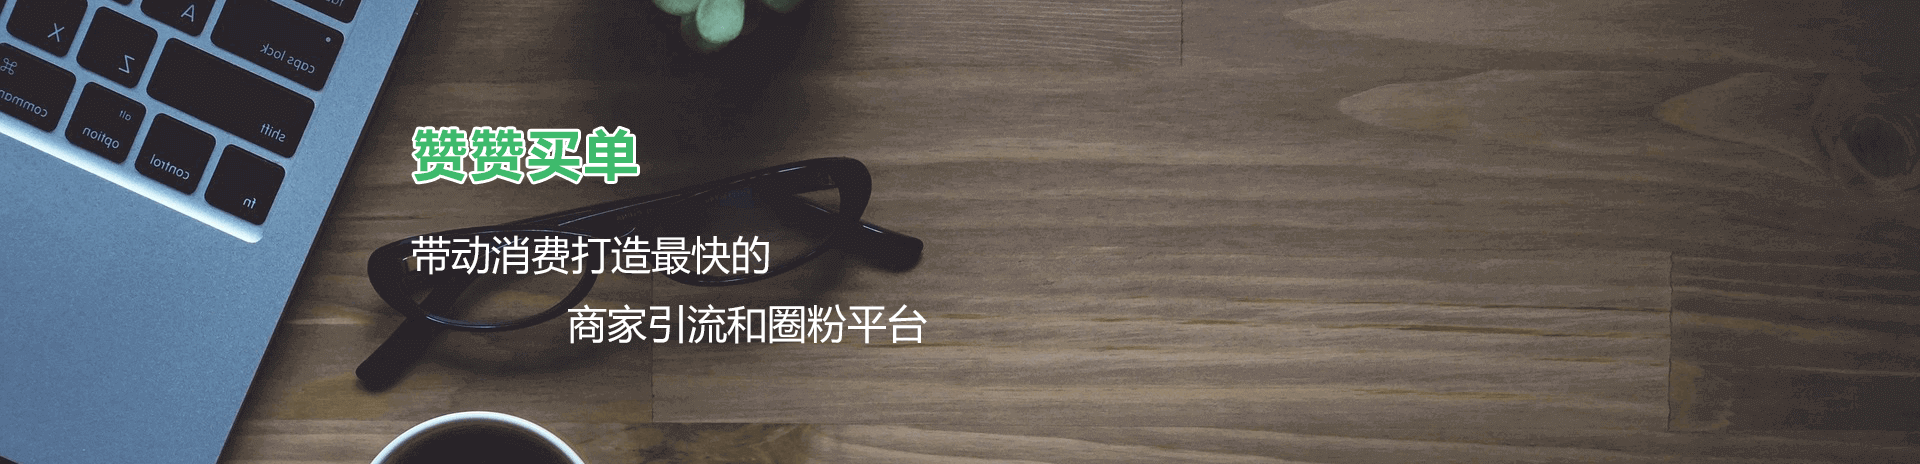
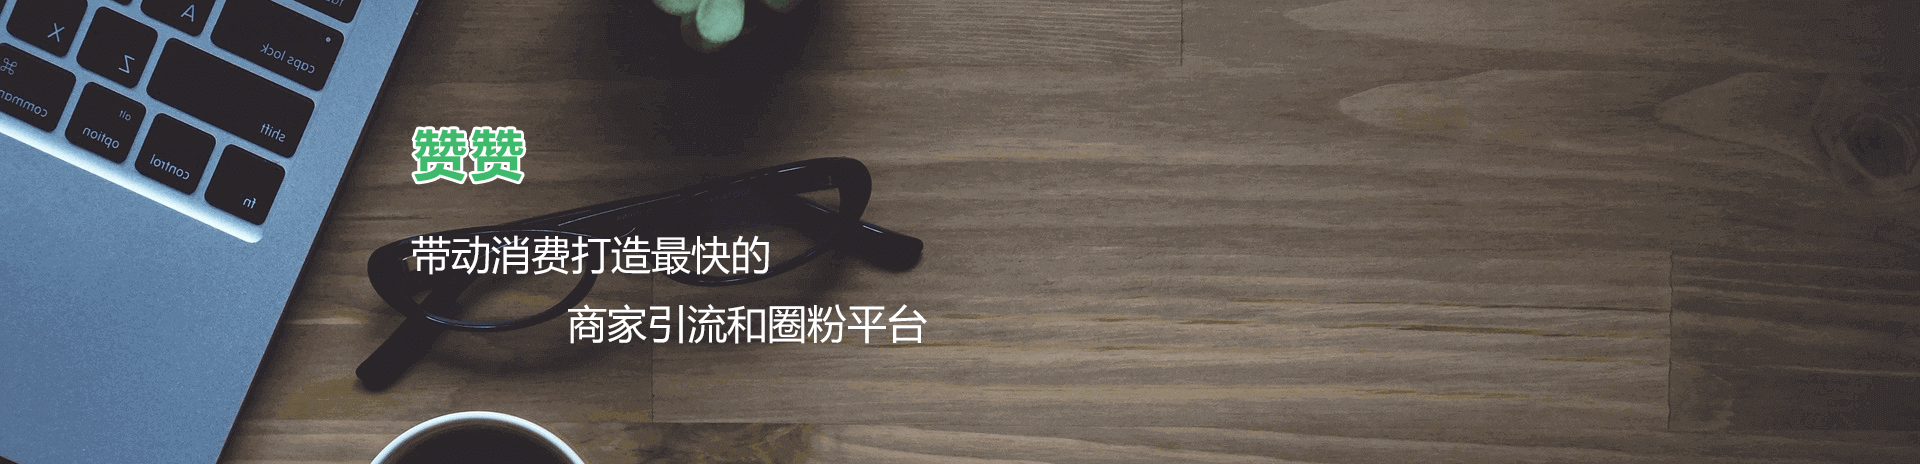
change name

Changed region(s): [[0.25, 0.2716, 0.3438, 0.3922]]

diff --git a/src/pages/homeComponents/header.jsx b/src/pages/homeComponents/header.jsx
@@ -22,7 +22,7 @@ class HomeHeader extends React.Component{
[1 lines of base64/hex data omitted]
 				style={{width:40+'px',height:40+'px'}}/>
 				<div className="logoName">
-					<p className="logoNameCont">赞赞买单商家版</p>
+					<p className="logoNameCont">赞赞交易平台</p>
 					<p>mt.zanzanmd.cn</p>
 				</div>
 			</div>

diff --git a/src/pages/login/login.jsx b/src/pages/login/login.jsx
@@ -10,7 +10,7 @@ class Login extends React.Component {
     }
     render = _ => <div className='login-wrapper'>
         <div className="header">
-            <img style={{width: 385 + 'px',height: 51 + 'px'}} src={require(`../../assets/img/images/logo.png`)}/>
+            <img style={{width: 307 + 'px',height: 51 + 'px'}} src={require(`../../assets/img/images/logo.png`)}/>
         </div>
         <div className="content-wrapper" style={{
             width: 100 + '%',
@@ -27,9 +27,9 @@ class Login extends React.Component {
         <div className="message">
             <div className="dynamic">
             <div className="dynamic-infor">
-                <p className="description">赞赞买单以微信支付、支付宝支付的快捷支付为基础，向用户提供安全、快捷、高效的支付服务。</p>
-                <p className="description">赞赞买单为消费者提供了便捷的支付方式和优惠折扣，为用户“钱包”再省一点。</p>
-                <p className="description">目前，赞赞买单已实现扫码支付、立减优惠等营销新工具，满足用户及商户的不同支付场景，成为大众消费者跟商家喜爱的支付和收款方式。</p>
+                <p className="description">赞赞以微信支付、支付宝支付的快捷支付为基础，向用户提供安全、快捷、高效的支付服务。</p>
+                <p className="description">赞赞为消费者提供了便捷的支付方式和优惠折扣，为用户“钱包”再省一点。</p>
+                <p className="description">目前，赞赞已实现扫码支付、立减优惠等营销新工具，满足用户及商户的不同支付场景，成为大众消费者跟商家喜爱的支付和收款方式。</p>
             </div>
             </div>
               <div className="dynamic-qr">
@@ -40,7 +40,7 @@ class Login extends React.Component {
                     </div>
             </div>
         </div>
-        <div className="footer">©2015-2016 赞赞买单 版权所有 ICP证：鲁ICP备14019564号</div>
+        <div className="footer">©2015-2016 赞赞 版权所有 ICP证：鲁ICP备14019564号</div>
     </div>
 }
 

diff --git a/src/pages/login/signin.jsx b/src/pages/login/signin.jsx
@@ -24,7 +24,7 @@ class NormalLoginForm extends React.Component {
         const { getFieldDecorator } = this.props.form;
         return (
             <Form onSubmit={this.handleSubmit} className="login-form">
-                <div className="login-form-name">登录赞赞买单</div>
+                <div className="login-form-name">登录赞赞</div>
                 <FormItem>
                     {getFieldDecorator('username', {
                         rules: [{ required: true, message: '请输入用户名！' }],

diff --git a/src/main.js b/src/main.js
@@ -51,7 +51,7 @@ const handleLogin = (next, replace, cb) => {
 }
 
 const routeConfig = (
-	<Route path = {'/'} breadcrumbName='赞赞买单' component = {Page} onEnter={handleLogin}>
+	<Route path = {'/'} breadcrumbName='赞赞' component = {Page} onEnter={handleLogin}>
 		<IndexRedirect to="/home"/>
 		<Route path = {'login'} breadcrumbName='登录' component = {Login}/>
 		<Route path = {'forget'} breadcrumbName='忘记密码' component = {ForgetPassword}/>

diff --git a/index.html b/index.html
@@ -3,7 +3,7 @@
 <head>
 	<meta charset="UTF-8">
 	<meta name="viewport" content="width=device-width, initial-scale=1, maximum-scale=1">
-	<title>赞赞买单商家后台管理系统</title>
+	<title>赞赞商家后台管理系统</title>
 </head>
 <body>
 	<div id = 'root'>
